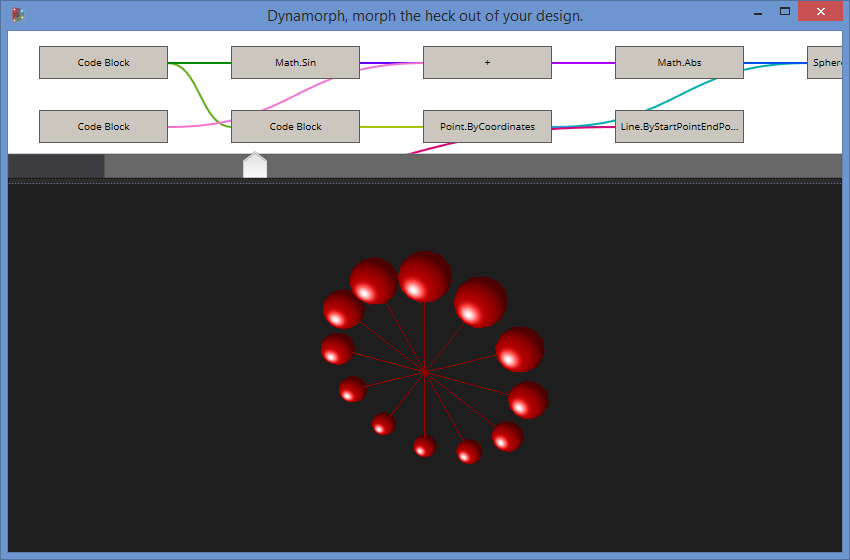
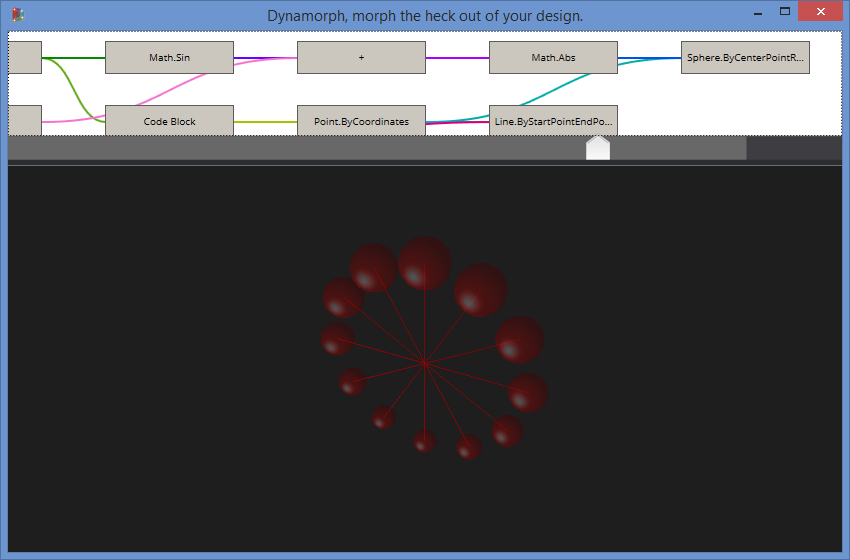
Updated screenshot of Dynamorph working with geometry blending

Changed region(s): [[0.0, 0.0607, 1.0, 0.3339], [0.3671, 0.425, 0.6424, 0.85]]

diff --git a/src/Extensions/Dynamorph/README.md b/src/Extensions/Dynamorph/README.md
@@ -23,9 +23,9 @@ Dynamorph, morph the heck out of your design.
 - [x] Use layout qualifier in GLSL instead of hard-coding
 - [x] Implement Phong shading model in GLSL
 - [x] Add slider to work with synthesized graph
-- [ ] Design structure to keep node-geometry data
-- [ ] Add shader uniform to control per-vertex alpha
-- [ ] Enable slider to work with C++ Visualizer
+- [x] Design structure to keep node-geometry data
+- [x] Add shader uniform to control per-vertex alpha
+- [x] Enable slider to work with C++ Visualizer
 - [ ] Handle node deletion to clear geometry data
 
 ##### Miscellaneous Tasks #####
@@ -58,5 +58,5 @@ Dynamorph, morph the heck out of your design.
 ## Screenshot Of The Day ##
 This is the latest screenshot of Dynamorph. It will be updated as and when there is any visible change to Dynamorph to reflect the latest development.
 
-#### Slider with thumb, and more accurate surface normals from ASM! :) ####
+#### Dynamorph workflow completed with geometry blending!!! :) ####
 ![Image](https://raw.githubusercontent.com/Benglin/Dynamo/Recharge_Ben/src/Extensions/Dynamorph/dynamorph-screen.png)
